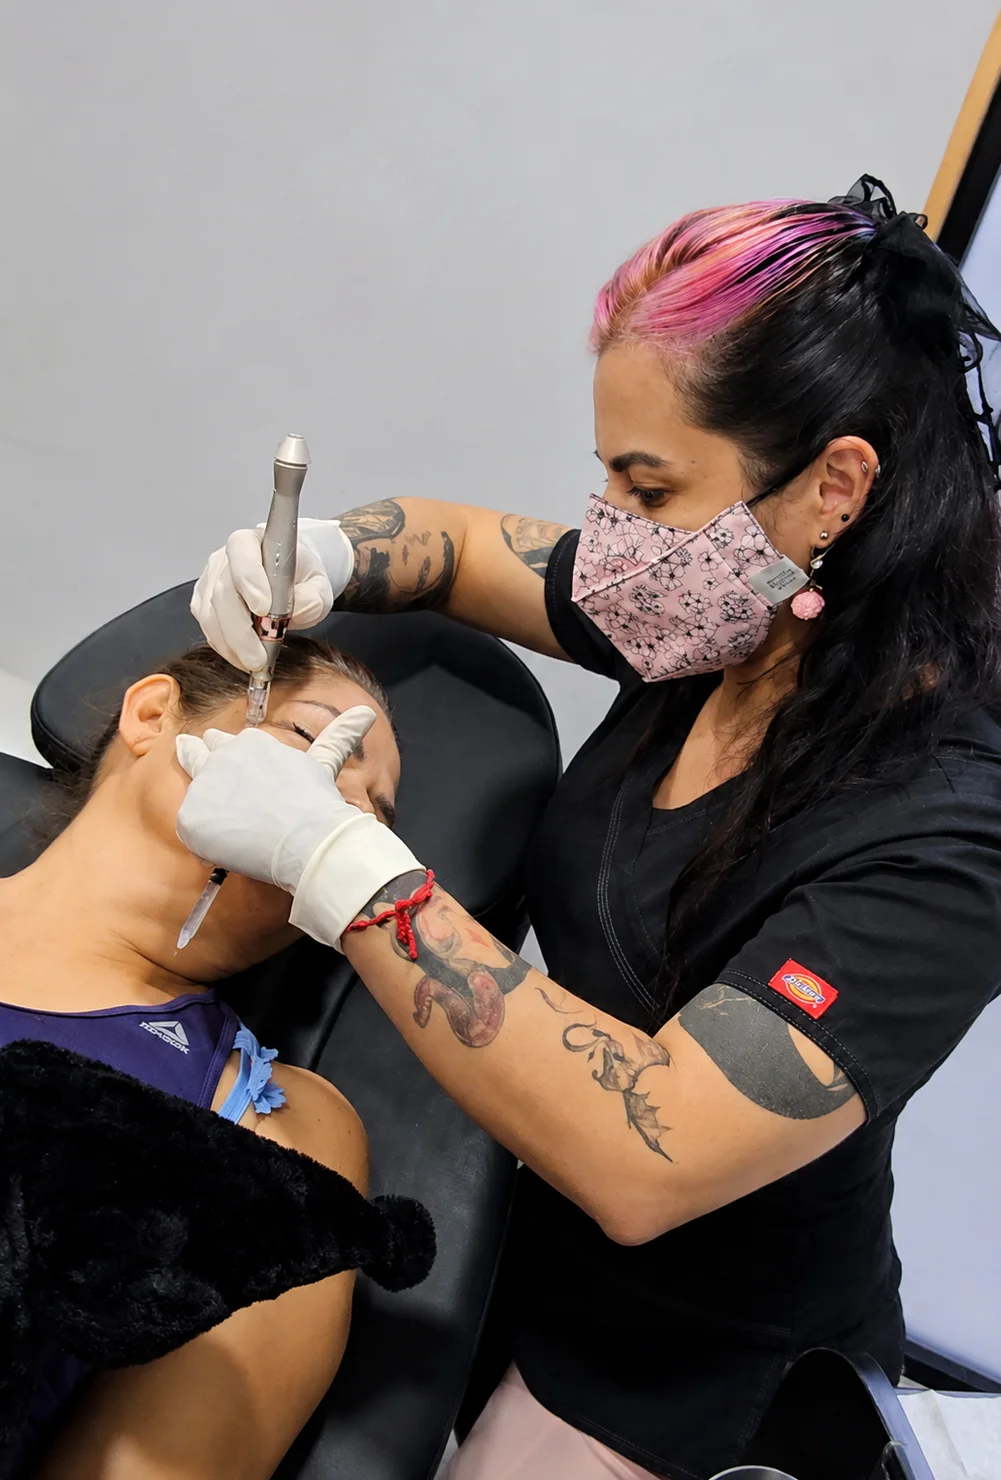
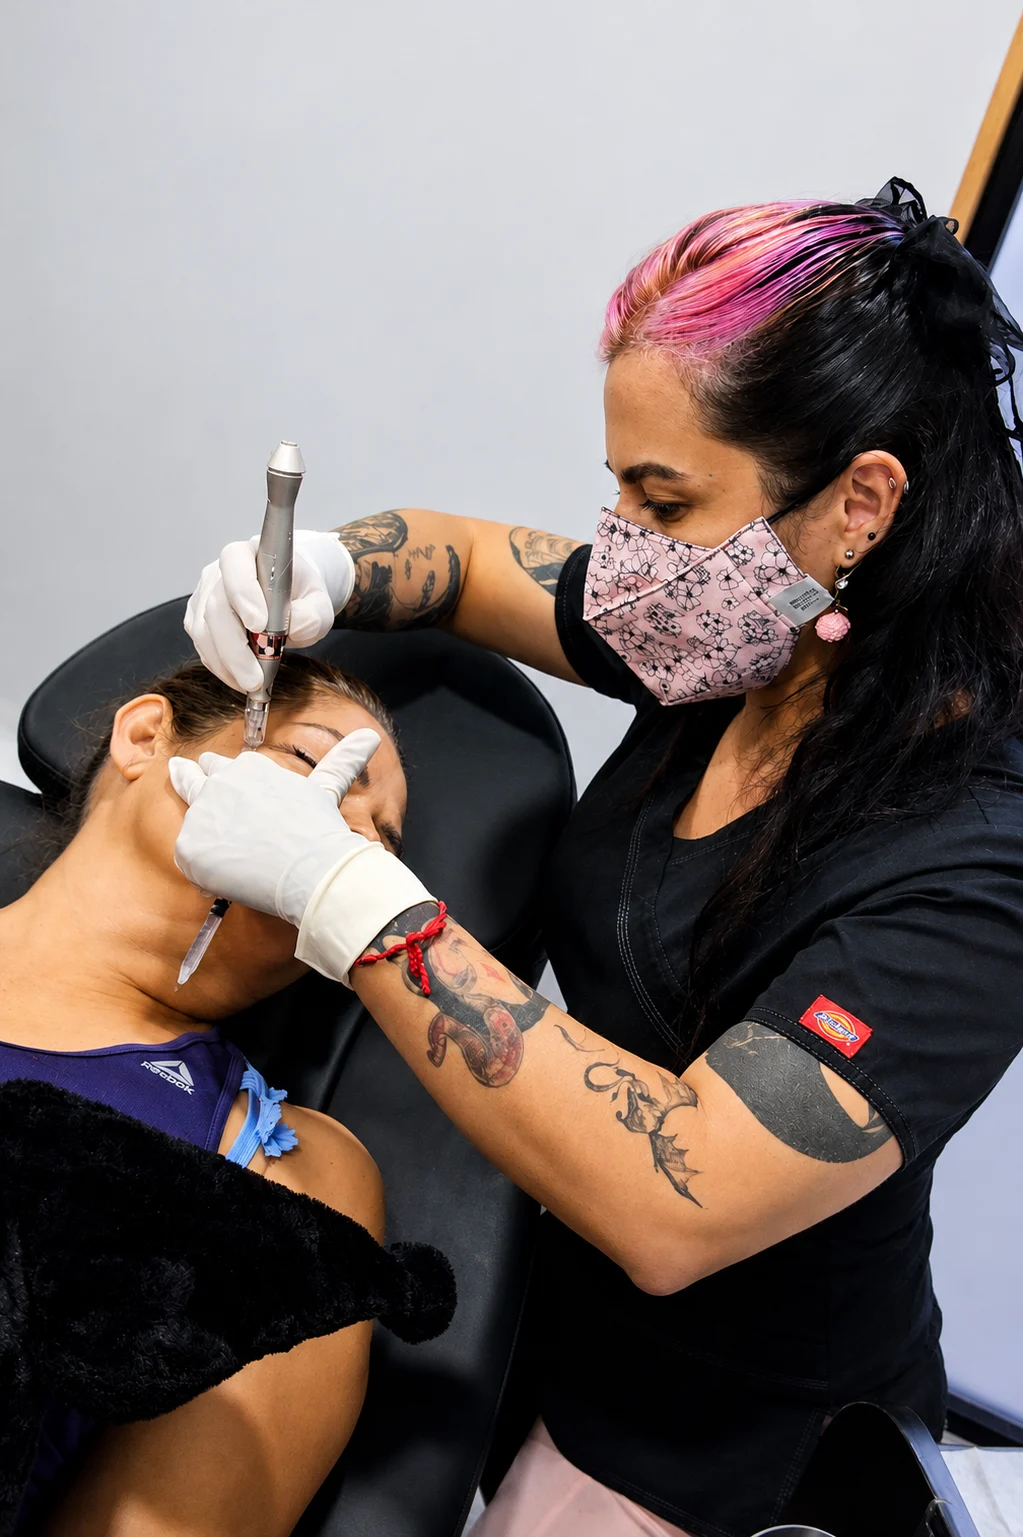
Resultados: foto 56 completa, sin zoom, con la misma foto difuminada de fondo
InnerHero acepta imageFit="contain" e imageBackdrop para mostrar fotos
verticales sin ampliarlas ni recortarlas.

diff --git a/src/styles/redesign.css b/src/styles/redesign.css
@@ -1582,6 +1582,16 @@ html {
   position: absolute;
 }
 
+/* Portada con la foto completa (imageFit="contain"): sin ampliar ni recortar;
+   los costados se llenan con la misma foto ya difuminada (imageBackdrop) */
+.inner-hero-media img.inner-hero-contain {
+  object-fit: contain;
+}
+
+.inner-hero-media img.inner-hero-backdrop {
+  object-fit: cover;
+}
+
 .site-header .brand-logo img.brand-logo-full {
   height: 78px;
 }
